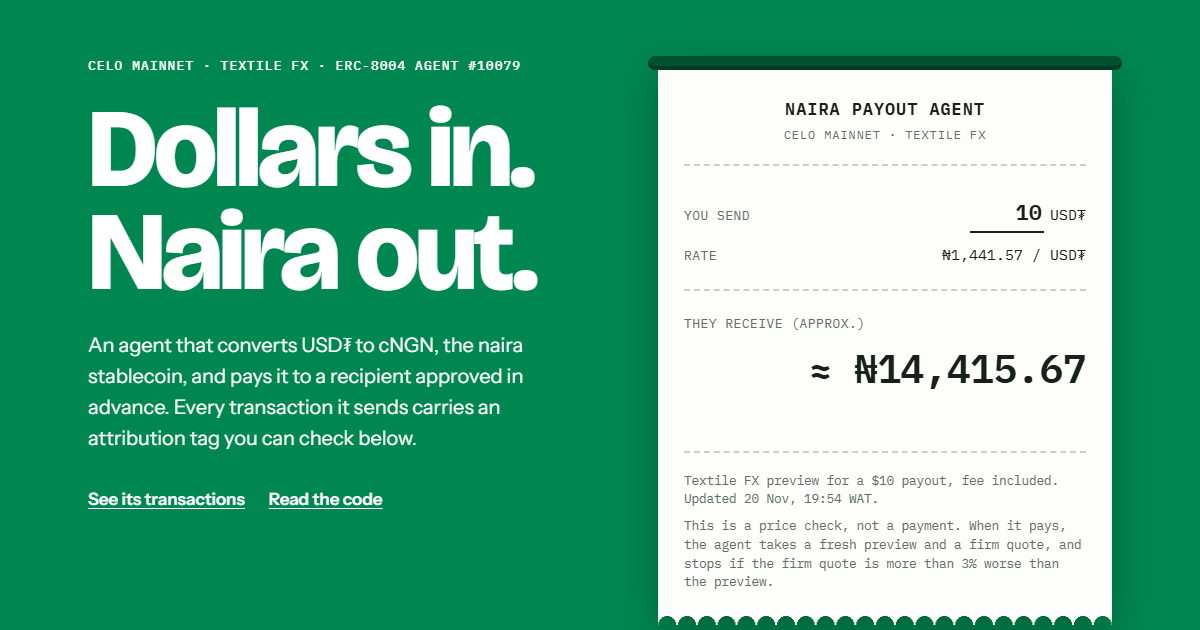
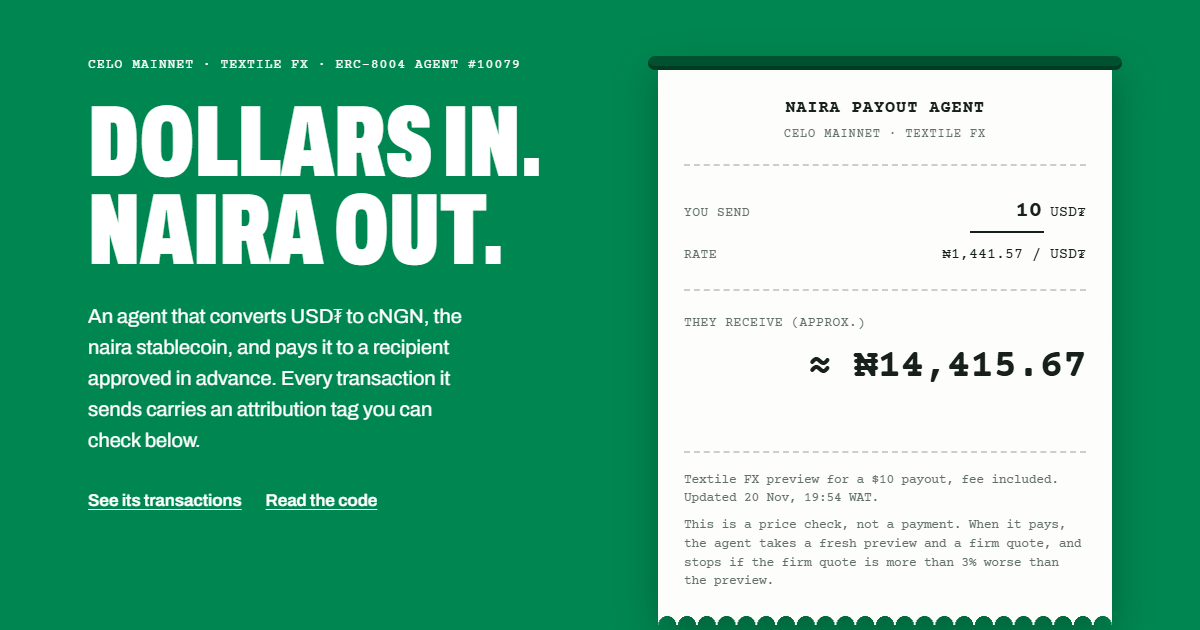
Switch typefaces to Archivo (condensed headlines) and Courier Prime (receipt)

diff --git a/site/index.html b/site/index.html
@@ -17,7 +17,7 @@
 <link rel="apple-touch-icon" href="logo.png">
 <link rel="preconnect" href="https://fonts.googleapis.com">
 <link rel="preconnect" href="https://fonts.gstatic.com" crossorigin>
-<link href="https://fonts.googleapis.com/css2?family=Bricolage+Grotesque:opsz,wght@12..96,800&family=Instrument+Sans:wght@400;600&family=IBM+Plex+Mono:wght@400;500;600&display=swap" rel="stylesheet">
+<link href="https://fonts.googleapis.com/css2?family=Archivo:wdth,wght@62..125,400..900&family=Courier+Prime:wght@400;700&display=swap" rel="stylesheet">
 <style>
   :root {
     --flag: #008751;      /* Nigerian flag green: the ground */
@@ -27,9 +27,11 @@
     --muted: #5f6e66;     /* secondary print on paper */
     --stamp: #5a3fcf;     /* rubber-stamp violet: verification only */
     --on-flag: #ffffff;
-    --display: "Bricolage Grotesque", system-ui, sans-serif;
-    --body: "Instrument Sans", system-ui, sans-serif;
-    --mono: "IBM Plex Mono", ui-monospace, monospace;
+    /* Archivo: condensed + heavy for headlines (newspaper front page / painted shop sign),
+       normal width for body. Courier Prime: the POS-receipt printout. */
+    --display: "Archivo", "Arial Narrow", system-ui, sans-serif;
+    --body: "Archivo", system-ui, sans-serif;
+    --mono: "Courier Prime", "Courier New", ui-monospace, monospace;
     --gutter: clamp(16px, 4vw, 48px);
   }
   * { box-sizing: border-box; }
@@ -47,8 +49,9 @@
   /* ---------- hero ---------- */
   .hero { display: grid; grid-template-columns: 1.05fr 0.95fr; gap: clamp(28px, 5vw, 72px); align-items: start; padding: clamp(40px, 8vw, 96px) 0 clamp(48px, 7vw, 88px); }
   .kicker { font: 500 13px/1.5 var(--mono); letter-spacing: .08em; text-transform: uppercase; margin: 0 0 22px; }
-  h1 { font: 800 clamp(48px, 8.4vw, 112px)/0.92 var(--display); letter-spacing: -0.035em; margin: 0 0 26px; }
-  h1 span { display: block; }
+  h1 { font: 900 clamp(48px, 16vw, 104px)/0.88 var(--display); font-stretch: 62%; letter-spacing: -0.005em; text-transform: uppercase; margin: 0 0 26px; }
+  h1 span { display: block; white-space: nowrap; }
+  @media (min-width: 861px) { h1 { font-size: clamp(64px, 7.4vw, 104px); } }
   .lede { font-size: clamp(17px, 1.6vw, 20px); max-width: 34ch; margin: 0 0 22px; }
   .hero-links { display: flex; flex-wrap: wrap; gap: 4px 24px; font-weight: 600; margin: 0; }
   .hero-links a { padding: 10px 0; touch-action: manipulation; }
@@ -99,7 +102,7 @@
 
   /* ---------- sections ---------- */
   section.band { padding: clamp(48px, 7vw, 88px) 0; border-top: 1px solid rgba(255,255,255,.22); scroll-margin-top: 8px; }
-  h2 { font: 800 clamp(30px, 4.2vw, 48px)/1 var(--display); letter-spacing: -0.025em; margin: 0 0 12px; }
+  h2 { font: 800 clamp(34px, 4.8vw, 56px)/0.95 var(--display); font-stretch: 68%; letter-spacing: 0; margin: 0 0 12px; }
   .sub { max-width: 62ch; margin: 0 0 32px; }
 
   .facts { display: grid; grid-template-columns: repeat(auto-fit, minmax(220px, 1fr)); gap: 2px; background: rgba(255,255,255,.22); border-radius: 10px; overflow: hidden; margin: 0; }
